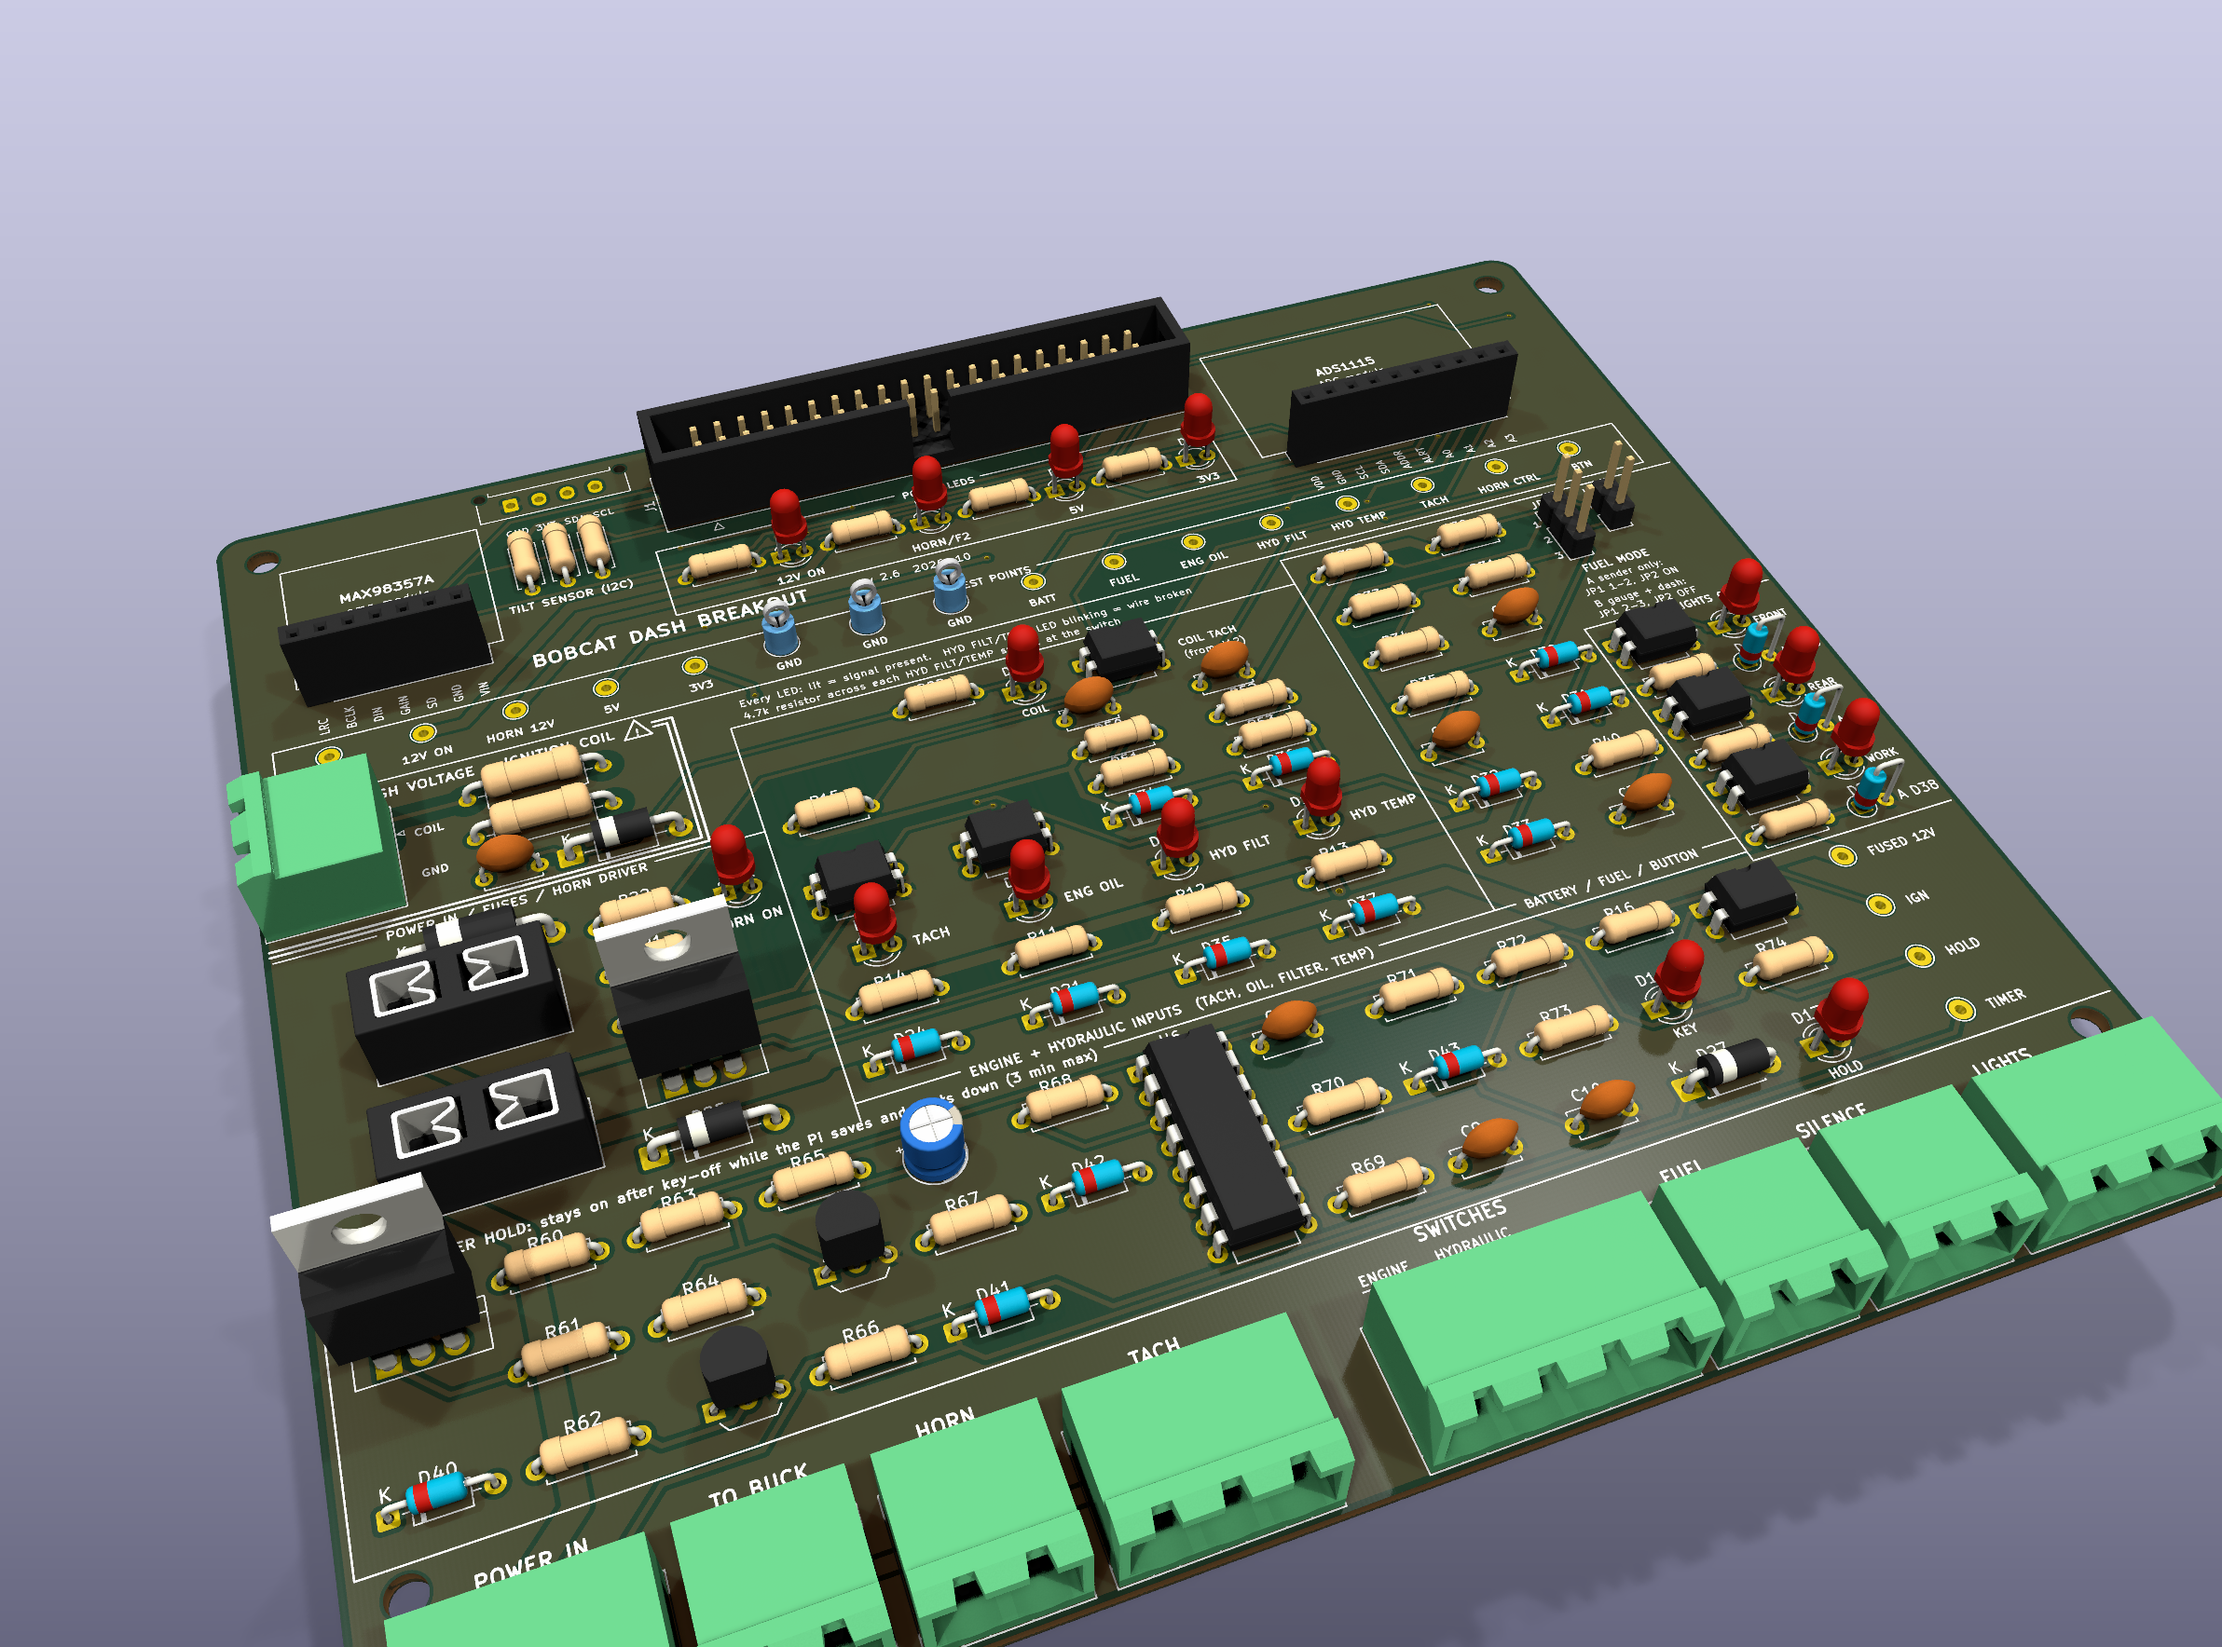
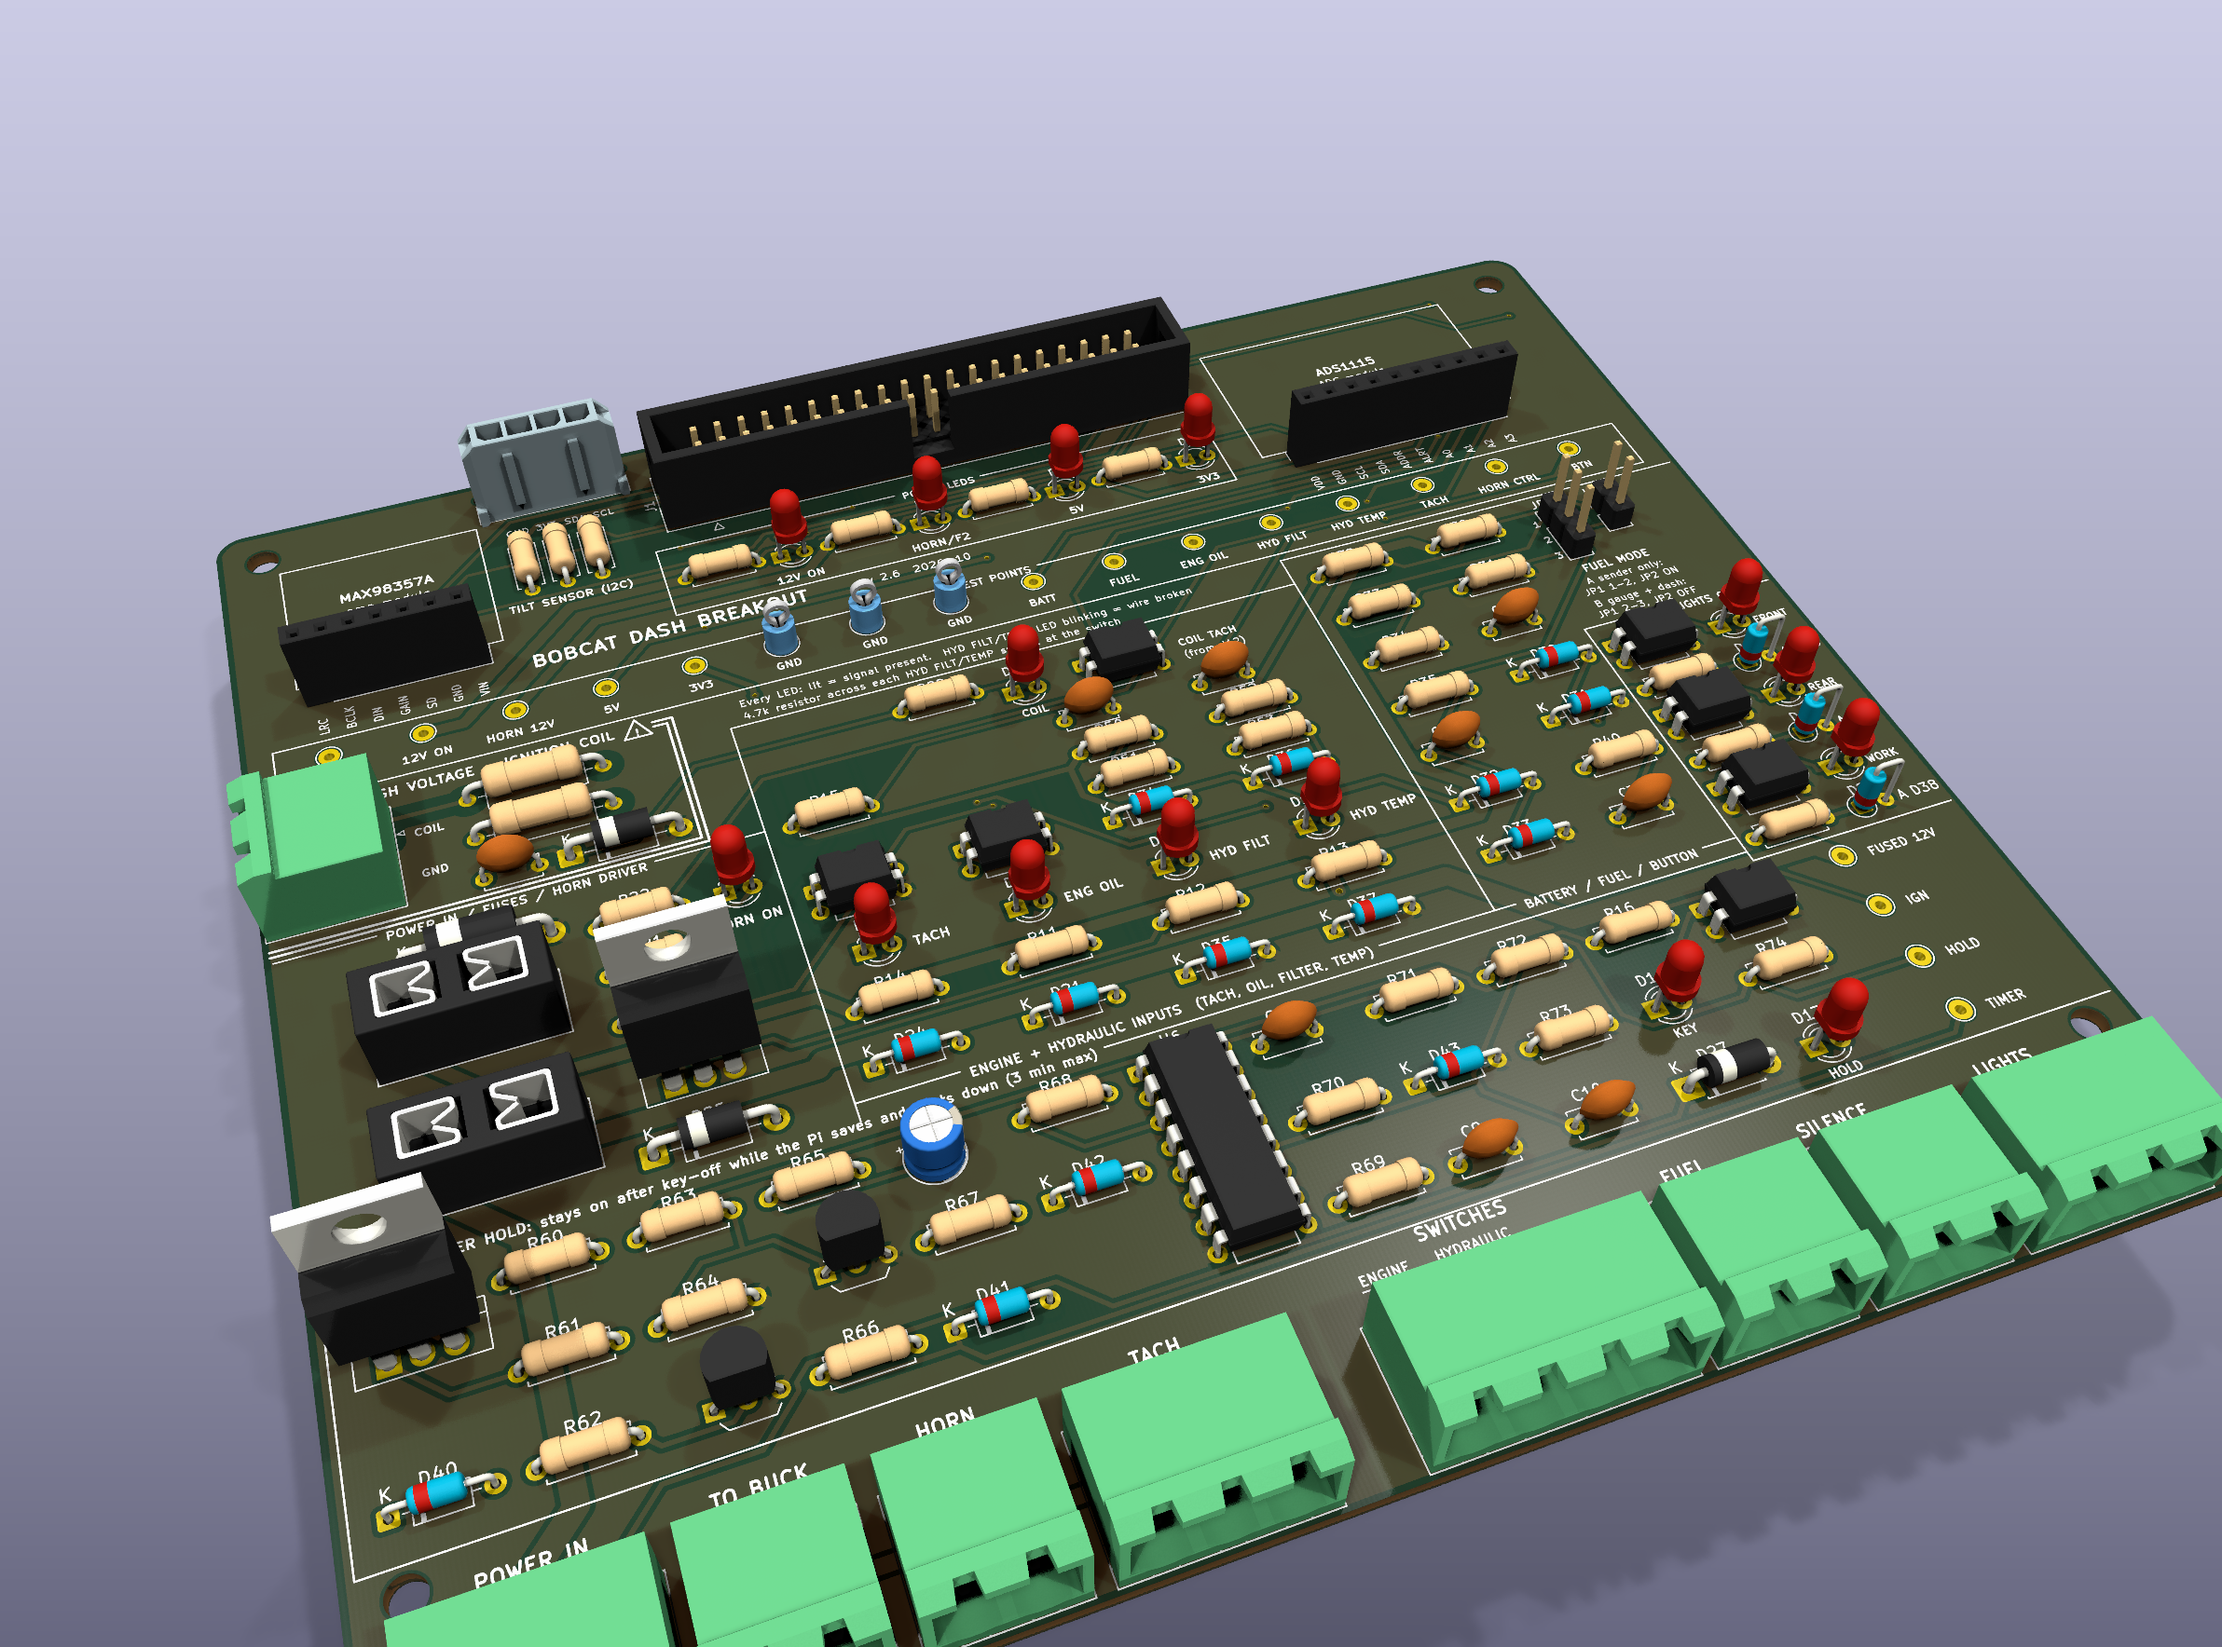
TILT connector 3D model: use Molex's STEP (kept local), re-render board pictures
- gen_pcb.py and the board file point J13 at ${KIPRJMOD}/3d/436500415.stp, rotated and offset so the
  pins sit in the pads (checked from below), the housing on the board and the latch at the notch.
- breakout-board/kicad/3d/ is git-ignored (Molex's terms); the board README says where to download it.
- board-top.png and board-3d.png now show the real Micro-Fit connector.

Changed region(s): [[0.1862, 0.2178, 0.3104, 0.3422]]

diff --git a/breakout-board/generator/gen_pcb.py b/breakout-board/generator/gen_pcb.py
@@ -161,6 +161,11 @@ for name in sorted(set(PIN_NET.values()), key=lambda n: "/" + _design_name.get(n
     board.Add(ni)
     netobj[name] = ni
 
+# 3D models KiCad doesn't ship. Molex's STEP for the TILT connector: download it free from molex.com (part
+# 43650-0415, CAD models) into kicad/3d/. It isn't in the repository (Molex's terms), so without it KiCad just
+# shows the pads. Rotation / offset found by rendering: pins in the pads, housing on the board, latch to the notch.
+MODEL_3D = {"J13": ("${KIPRJMOD}/3d/436500415.stp", (90, 0, 0), (4.5, -2.0, 9.9))}
+
 link = json.load(open("sch_uuids.json"))
 for p in PARTS:
     lib, name = p["fp"].split(":")
@@ -170,6 +175,11 @@ for p in PARTS:
     fp.SetValue(p["value"])
     fp.SetField("Description", p["desc"])
     fp.SetPath(pcbnew.KIID_PATH("/" + link["parts"][p["ref"]]))
+    if p["ref"] in MODEL_3D:                         # manufacturer 3D model kept with the project (see README)
+        path, mrot, moff = MODEL_3D[p["ref"]]
+        for i in range(len(fp.Models())):            # index it: iterating gives copies, and changes are lost
+            m = fp.Models()[i]
+            m.m_Filename, m.m_Rotation, m.m_Offset = path, pcbnew.VECTOR3D(*mrot), pcbnew.VECTOR3D(*moff)
     x, y, rot = P[p["ref"]]
     fp.SetPosition(V(x, y))
     fp.SetOrientationDegrees(rot)

diff --git a/breakout-board/README.md b/breakout-board/README.md
@@ -183,6 +183,19 @@ left off the board. With setup B, R32 and JP2 can be left off.
 
 Never fit JP2 in setup B. The gauge would back-feed the pull-up. It wouldn't damage anything, but the reading would be wrong.
 
+## 3D models
+
+KiCad's own library covers every part except the TILT connector (Molex Micro-Fit 3.0, 43650-0415): KiCad
+ships no Micro-Fit models. The project uses Molex's own STEP model, which isn't included here because Molex's
+terms don't clearly allow passing it on. To get it in the 3D viewer and renders:
+
+1. On molex.com, search **43650-0415**, open **CAD Models** and download the **STEP** file (free; it may ask
+   you to register). It's named `436500415.stp`.
+2. Put it in `kicad/3d/436500415.stp` (the folder is in `.gitignore`).
+
+The board already points to it, rotated and offset to sit on its pads. Without the file, KiCad just shows that
+connector's pads and outline; nothing else is affected (the 3D model isn't part of the Gerbers).
+
 ## Keeping the plugs in
 
 The harness plugs (Phoenix MSTB) hold by friction, which is fine on a bench but not on a machine that shakes
